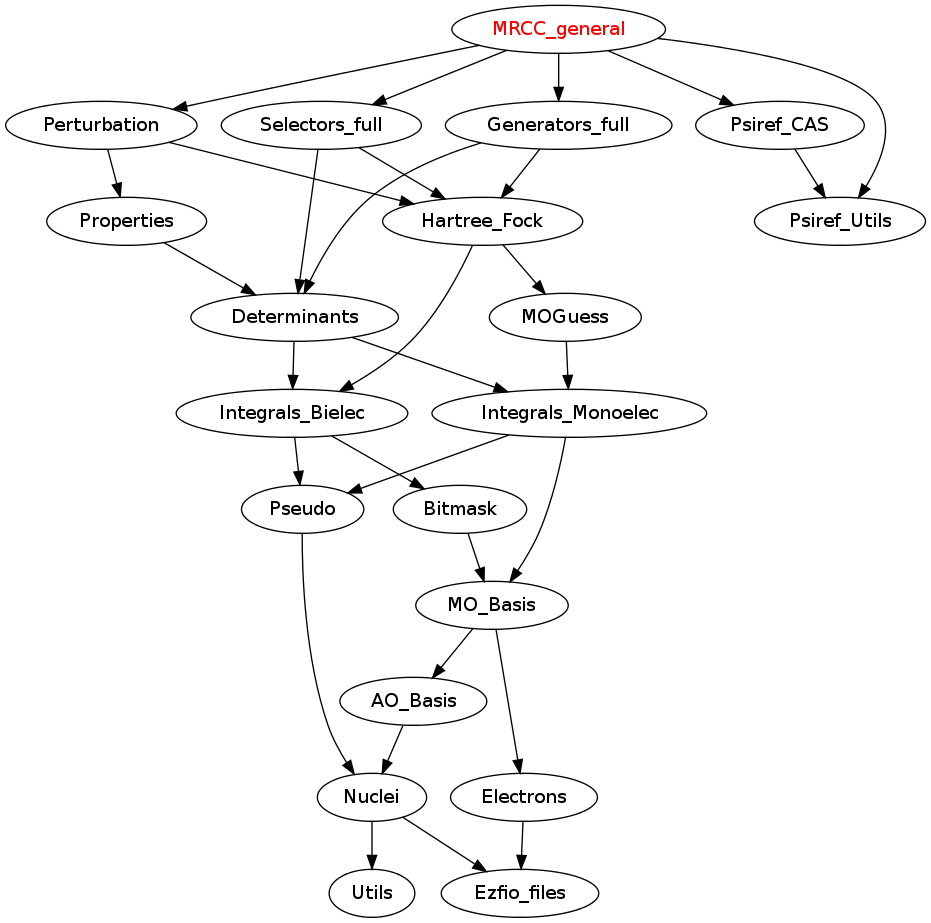
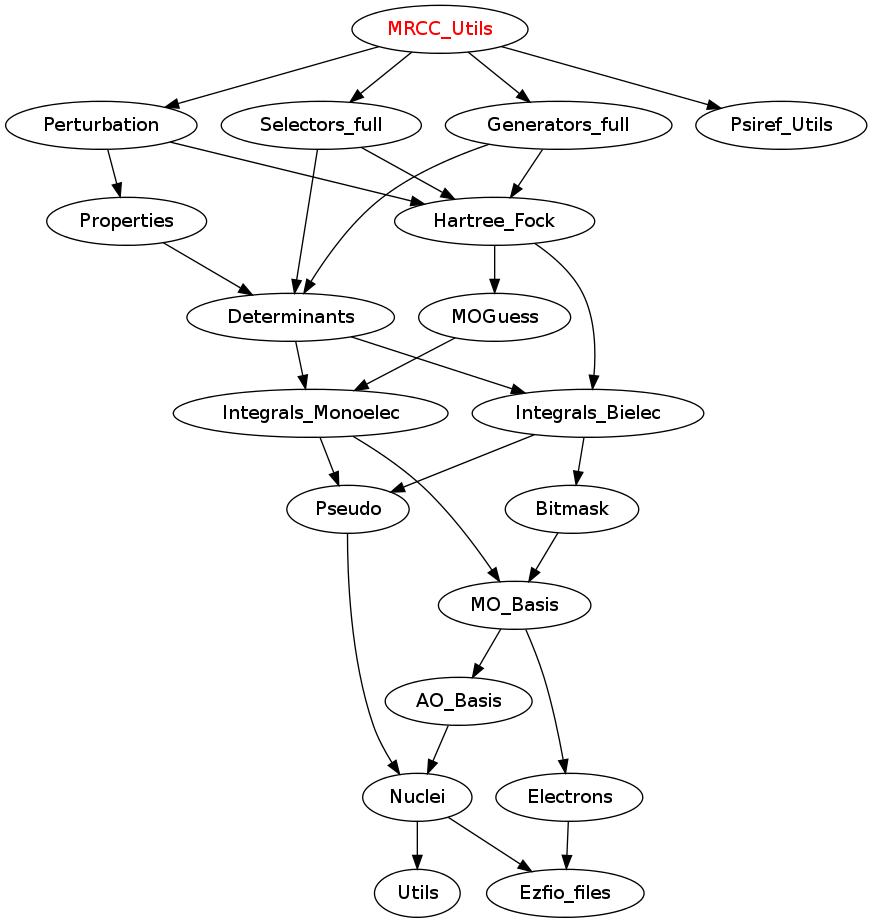
Renamed mrcc in mrcc_cassd

diff --git a/plugins/MRCC_Utils/README.rst b/plugins/MRCC_Utils/README.rst
@@ -13,7 +13,6 @@ Needed Modules
 * `Perturbation <http://github.com/LCPQ/quantum_package/tree/master/src/Perturbation>`_
 * `Selectors_full <http://github.com/LCPQ/quantum_package/tree/master/src/Selectors_full>`_
 * `Generators_full <http://github.com/LCPQ/quantum_package/tree/master/src/Generators_full>`_
-* `Psiref_CAS <http://github.com/LCPQ/quantum_package/tree/master/src/Psiref_CAS>`_
 * `Psiref_Utils <http://github.com/LCPQ/quantum_package/tree/master/src/Psiref_Utils>`_
 
 Documentation
@@ -22,23 +21,23 @@ Documentation
 .. Do not edit this section. It was auto-generated from the
 .. by the `update_README.py` script.
 
-`ci_eigenvectors_dressed <http://github.com/LCPQ/quantum_package/tree/master/src/MRCC_general/mrcc_utils.irp.f#L76>`_
+`ci_eigenvectors_dressed <http://github.com/LCPQ/quantum_package/tree/master/src/MRCC_Utils/mrcc_utils.irp.f#L76>`_
   Eigenvectors/values of the CI matrix
 
 
-`ci_eigenvectors_s2_dressed <http://github.com/LCPQ/quantum_package/tree/master/src/MRCC_general/mrcc_utils.irp.f#L77>`_
+`ci_eigenvectors_s2_dressed <http://github.com/LCPQ/quantum_package/tree/master/src/MRCC_Utils/mrcc_utils.irp.f#L77>`_
   Eigenvectors/values of the CI matrix
 
 
-`ci_electronic_energy_dressed <http://github.com/LCPQ/quantum_package/tree/master/src/MRCC_general/mrcc_utils.irp.f#L75>`_
+`ci_electronic_energy_dressed <http://github.com/LCPQ/quantum_package/tree/master/src/MRCC_Utils/mrcc_utils.irp.f#L75>`_
   Eigenvectors/values of the CI matrix
 
 
-`ci_energy_dressed <http://github.com/LCPQ/quantum_package/tree/master/src/MRCC_general/mrcc_utils.irp.f#L142>`_
+`ci_energy_dressed <http://github.com/LCPQ/quantum_package/tree/master/src/MRCC_Utils/mrcc_utils.irp.f#L142>`_
   N_states lowest eigenvalues of the dressed CI matrix
 
 
-`davidson_diag_hjj_mrcc <http://github.com/LCPQ/quantum_package/tree/master/src/MRCC_general/davidson.irp.f#L56>`_
+`davidson_diag_hjj_mrcc <http://github.com/LCPQ/quantum_package/tree/master/src/MRCC_Utils/davidson.irp.f#L56>`_
   Davidson diagonalization with specific diagonal elements of the H matrix
   .br
   H_jj : specific diagonal H matrix elements to diagonalize de Davidson
@@ -59,7 +58,7 @@ Documentation
   Initial guess vectors are not necessarily orthonormal
 
 
-`davidson_diag_mrcc <http://github.com/LCPQ/quantum_package/tree/master/src/MRCC_general/davidson.irp.f#L1>`_
+`davidson_diag_mrcc <http://github.com/LCPQ/quantum_package/tree/master/src/MRCC_Utils/davidson.irp.f#L1>`_
   Davidson diagonalization.
   .br
   dets_in : bitmasks corresponding to determinants
@@ -78,45 +77,45 @@ Documentation
   Initial guess vectors are not necessarily orthonormal
 
 
-`delta_ii <http://github.com/LCPQ/quantum_package/tree/master/src/MRCC_general/mrcc_utils.irp.f#L39>`_
+`delta_ii <http://github.com/LCPQ/quantum_package/tree/master/src/MRCC_Utils/mrcc_utils.irp.f#L39>`_
   Dressing matrix in N_det basis
 
 
-`delta_ij <http://github.com/LCPQ/quantum_package/tree/master/src/MRCC_general/mrcc_utils.irp.f#L38>`_
+`delta_ij <http://github.com/LCPQ/quantum_package/tree/master/src/MRCC_Utils/mrcc_utils.irp.f#L38>`_
   Dressing matrix in N_det basis
 
 
-`diagonalize_ci_dressed <http://github.com/LCPQ/quantum_package/tree/master/src/MRCC_general/mrcc_utils.irp.f#L157>`_
+`diagonalize_ci_dressed <http://github.com/LCPQ/quantum_package/tree/master/src/MRCC_Utils/mrcc_utils.irp.f#L157>`_
   Replace the coefficients of the CI states by the coefficients of the
   eigenstates of the CI matrix
 
 
-`find_triples_and_quadruples <http://github.com/LCPQ/quantum_package/tree/master/src/MRCC_general/mrcc_dress.irp.f#L206>`_
+`find_triples_and_quadruples <http://github.com/LCPQ/quantum_package/tree/master/src/MRCC_Utils/mrcc_dress.irp.f#L206>`_
   Undocumented
 
 
-`h_apply_mrcc <http://github.com/LCPQ/quantum_package/tree/master/src/MRCC_general/H_apply.irp.f_shell_27#L416>`_
+`h_apply_mrcc <http://github.com/LCPQ/quantum_package/tree/master/src/MRCC_Utils/H_apply.irp.f_shell_27#L416>`_
   Calls H_apply on the HF determinant and selects all connected single and double
   excitations (of the same symmetry). Auto-generated by the ``generate_h_apply`` script.
 
 
-`h_apply_mrcc_diexc <http://github.com/LCPQ/quantum_package/tree/master/src/MRCC_general/H_apply.irp.f_shell_27#L1>`_
+`h_apply_mrcc_diexc <http://github.com/LCPQ/quantum_package/tree/master/src/MRCC_Utils/H_apply.irp.f_shell_27#L1>`_
   Generate all double excitations of key_in using the bit masks of holes and
   particles.
   Assume N_int is already provided.
 
 
-`h_apply_mrcc_monoexc <http://github.com/LCPQ/quantum_package/tree/master/src/MRCC_general/H_apply.irp.f_shell_27#L268>`_
+`h_apply_mrcc_monoexc <http://github.com/LCPQ/quantum_package/tree/master/src/MRCC_Utils/H_apply.irp.f_shell_27#L268>`_
   Generate all single excitations of key_in using the bit masks of holes and
   particles.
   Assume N_int is already provided.
 
 
-`h_matrix_dressed <http://github.com/LCPQ/quantum_package/tree/master/src/MRCC_general/mrcc_utils.irp.f#L50>`_
+`h_matrix_dressed <http://github.com/LCPQ/quantum_package/tree/master/src/MRCC_Utils/mrcc_utils.irp.f#L50>`_
   Dressed H with Delta_ij
 
 
-`h_u_0_mrcc <http://github.com/LCPQ/quantum_package/tree/master/src/MRCC_general/davidson.irp.f#L360>`_
+`h_u_0_mrcc <http://github.com/LCPQ/quantum_package/tree/master/src/MRCC_Utils/davidson.irp.f#L360>`_
   Computes v_0 = H|u_0>
   .br
   n : number of determinants
@@ -124,38 +123,26 @@ Documentation
   H_jj : array of <j|H|j>
 
 
-`lambda_mrcc <http://github.com/LCPQ/quantum_package/tree/master/src/MRCC_general/mrcc_utils.irp.f#L1>`_
+`lambda_mrcc <http://github.com/LCPQ/quantum_package/tree/master/src/MRCC_Utils/mrcc_utils.irp.f#L1>`_
   cm/<Psi_0|H|D_m> or perturbative 1/Delta_E(m)
 
 
-`lambda_pert <http://github.com/LCPQ/quantum_package/tree/master/src/MRCC_general/mrcc_utils.irp.f#L2>`_
+`lambda_pert <http://github.com/LCPQ/quantum_package/tree/master/src/MRCC_Utils/mrcc_utils.irp.f#L2>`_
   cm/<Psi_0|H|D_m> or perturbative 1/Delta_E(m)
 
 
-`mrcc <http://github.com/LCPQ/quantum_package/tree/master/src/MRCC_general/mrcc_general.irp.f#L1>`_
+`mrcc_dress <http://github.com/LCPQ/quantum_package/tree/master/src/MRCC_Utils/mrcc_dress.irp.f#L15>`_
   Undocumented
 
 
-`mrcc_dress <http://github.com/LCPQ/quantum_package/tree/master/src/MRCC_general/mrcc_dress.irp.f#L15>`_
+`mrcc_dress_simple <http://github.com/LCPQ/quantum_package/tree/master/src/MRCC_Utils/mrcc_dress.irp.f#L160>`_
   Undocumented
 
 
-`mrcc_dress_simple <http://github.com/LCPQ/quantum_package/tree/master/src/MRCC_general/mrcc_dress.irp.f#L160>`_
-  Undocumented
-
-
-`psi_ref_lock <http://github.com/LCPQ/quantum_package/tree/master/src/MRCC_general/mrcc_dress.irp.f#L3>`_
+`psi_ref_lock <http://github.com/LCPQ/quantum_package/tree/master/src/MRCC_Utils/mrcc_dress.irp.f#L3>`_
   Locks on ref determinants to fill delta_ij
 
 
-`run <http://github.com/LCPQ/quantum_package/tree/master/src/MRCC_general/mrcc_general.irp.f#L10>`_
-  Undocumented
-
-
-`run_mrcc <http://github.com/LCPQ/quantum_package/tree/master/src/MRCC_general/mrcc_general.irp.f#L36>`_
-  Undocumented
-
-
-`run_mrcc_test <http://github.com/LCPQ/quantum_package/tree/master/src/MRCC_general/mrcc_general.irp.f#L23>`_
+`run_mrcc <http://github.com/LCPQ/quantum_package/tree/master/src/MRCC_Utils/mrcc_general.irp.f#L1>`_
   Undocumented
 

diff --git a/plugins/MRCC_CASSD/README.rst b/plugins/MRCC_CASSD/README.rst
@@ -15,6 +15,8 @@ Needed Modules
 * `Perturbation <http://github.com/LCPQ/quantum_package/tree/master/src/Perturbation>`_
 * `Selectors_full <http://github.com/LCPQ/quantum_package/tree/master/src/Selectors_full>`_
 * `Generators_full <http://github.com/LCPQ/quantum_package/tree/master/src/Generators_full>`_
+* `Psiref_CAS <http://github.com/LCPQ/quantum_package/tree/master/src/Psiref_CAS>`_
+* `MRCC_Utils <http://github.com/LCPQ/quantum_package/tree/master/src/MRCC_Utils>`_
 
 Documentation
 =============
@@ -22,140 +24,10 @@ Documentation
 .. Do not edit this section. It was auto-generated from the
 .. by the `update_README.py` script.
 
-`ci_eigenvectors_dressed <http://github.com/LCPQ/quantum_package/tree/master/src/MRCC/mrcc_utils.irp.f#L76>`_
-  Eigenvectors/values of the CI matrix
-
-
-`ci_eigenvectors_s2_dressed <http://github.com/LCPQ/quantum_package/tree/master/src/MRCC/mrcc_utils.irp.f#L77>`_
-  Eigenvectors/values of the CI matrix
-
-
-`ci_electronic_energy_dressed <http://github.com/LCPQ/quantum_package/tree/master/src/MRCC/mrcc_utils.irp.f#L75>`_
-  Eigenvectors/values of the CI matrix
-
-
-`ci_energy_dressed <http://github.com/LCPQ/quantum_package/tree/master/src/MRCC/mrcc_utils.irp.f#L142>`_
-  N_states lowest eigenvalues of the dressed CI matrix
-
-
-`davidson_diag_hjj_mrcc <http://github.com/LCPQ/quantum_package/tree/master/src/MRCC/davidson.irp.f#L56>`_
-  Davidson diagonalization with specific diagonal elements of the H matrix
-  .br
-  H_jj : specific diagonal H matrix elements to diagonalize de Davidson
-  .br
-  dets_in : bitmasks corresponding to determinants
-  .br
-  u_in : guess coefficients on the various states. Overwritten
-  on exit
-  .br
-  dim_in : leftmost dimension of u_in
-  .br
-  sze : Number of determinants
-  .br
-  N_st : Number of eigenstates
-  .br
-  iunit : Unit for the I/O
-  .br
-  Initial guess vectors are not necessarily orthonormal
-
-
-`davidson_diag_mrcc <http://github.com/LCPQ/quantum_package/tree/master/src/MRCC/davidson.irp.f#L1>`_
-  Davidson diagonalization.
-  .br
-  dets_in : bitmasks corresponding to determinants
-  .br
-  u_in : guess coefficients on the various states. Overwritten
-  on exit
-  .br
-  dim_in : leftmost dimension of u_in
-  .br
-  sze : Number of determinants
-  .br
-  N_st : Number of eigenstates
-  .br
-  iunit : Unit number for the I/O
-  .br
-  Initial guess vectors are not necessarily orthonormal
-
-
-`delta_ii <http://github.com/LCPQ/quantum_package/tree/master/src/MRCC/mrcc_utils.irp.f#L39>`_
-  Dressing matrix in N_det basis
-
-
-`delta_ij <http://github.com/LCPQ/quantum_package/tree/master/src/MRCC/mrcc_utils.irp.f#L38>`_
-  Dressing matrix in N_det basis
-
-
-`diagonalize_ci_dressed <http://github.com/LCPQ/quantum_package/tree/master/src/MRCC/mrcc_utils.irp.f#L157>`_
-  Replace the coefficients of the CI states by the coefficients of the
-  eigenstates of the CI matrix
-
-
-`find_triples_and_quadruples <http://github.com/LCPQ/quantum_package/tree/master/src/MRCC/mrcc_dress.irp.f#L206>`_
+`mrcc <http://github.com/LCPQ/quantum_package/tree/master/src/MRCC_CASSD/mrcc.irp.f#L1>`_
   Undocumented
 
 
-`h_apply_mrcc <http://github.com/LCPQ/quantum_package/tree/master/src/MRCC/H_apply.irp.f_shell_27#L416>`_
-  Calls H_apply on the HF determinant and selects all connected single and double
-  excitations (of the same symmetry). Auto-generated by the ``generate_h_apply`` script.
-
-
-`h_apply_mrcc_diexc <http://github.com/LCPQ/quantum_package/tree/master/src/MRCC/H_apply.irp.f_shell_27#L1>`_
-  Generate all double excitations of key_in using the bit masks of holes and
-  particles.
-  Assume N_int is already provided.
-
-
-`h_apply_mrcc_monoexc <http://github.com/LCPQ/quantum_package/tree/master/src/MRCC/H_apply.irp.f_shell_27#L268>`_
-  Generate all single excitations of key_in using the bit masks of holes and
-  particles.
-  Assume N_int is already provided.
-
-
-`h_matrix_dressed <http://github.com/LCPQ/quantum_package/tree/master/src/MRCC/mrcc_utils.irp.f#L50>`_
-  Dressed H with Delta_ij
-
-
-`h_u_0_mrcc <http://github.com/LCPQ/quantum_package/tree/master/src/MRCC/davidson.irp.f#L360>`_
-  Computes v_0 = H|u_0>
-  .br
-  n : number of determinants
-  .br
-  H_jj : array of <j|H|j>
-
-
-`lambda_mrcc <http://github.com/LCPQ/quantum_package/tree/master/src/MRCC/mrcc_utils.irp.f#L1>`_
-  cm/<Psi_0|H|D_m> or perturbative 1/Delta_E(m)
-
-
-`lambda_pert <http://github.com/LCPQ/quantum_package/tree/master/src/MRCC/mrcc_utils.irp.f#L2>`_
-  cm/<Psi_0|H|D_m> or perturbative 1/Delta_E(m)
-
-
-`mrcc <http://github.com/LCPQ/quantum_package/tree/master/src/MRCC/mrcc.irp.f#L1>`_
-  Undocumented
-
-
-`mrcc_dress <http://github.com/LCPQ/quantum_package/tree/master/src/MRCC/mrcc_dress.irp.f#L15>`_
-  Undocumented
-
-
-`mrcc_dress_simple <http://github.com/LCPQ/quantum_package/tree/master/src/MRCC/mrcc_dress.irp.f#L160>`_
-  Undocumented
-
-
-`psi_cas_lock <http://github.com/LCPQ/quantum_package/tree/master/src/MRCC/mrcc_dress.irp.f#L3>`_
-  Locks on CAS determinants to fill delta_ij
-
-
-`run <http://github.com/LCPQ/quantum_package/tree/master/src/MRCC/mrcc.irp.f#L10>`_
-  Undocumented
-
-
-`run_mrcc <http://github.com/LCPQ/quantum_package/tree/master/src/MRCC/mrcc.irp.f#L42>`_
-  Undocumented
-
-
-`run_mrcc_test <http://github.com/LCPQ/quantum_package/tree/master/src/MRCC/mrcc.irp.f#L29>`_
+`print_cas_coefs <http://github.com/LCPQ/quantum_package/tree/master/src/MRCC_CASSD/mrcc.irp.f#L7>`_
   Undocumented
 
